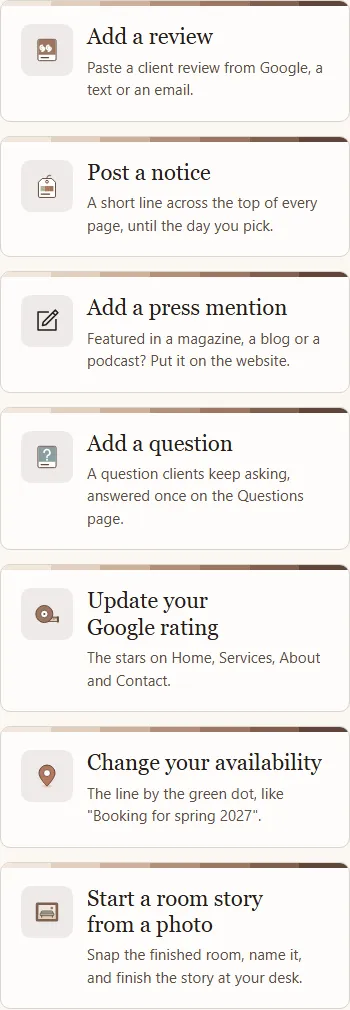
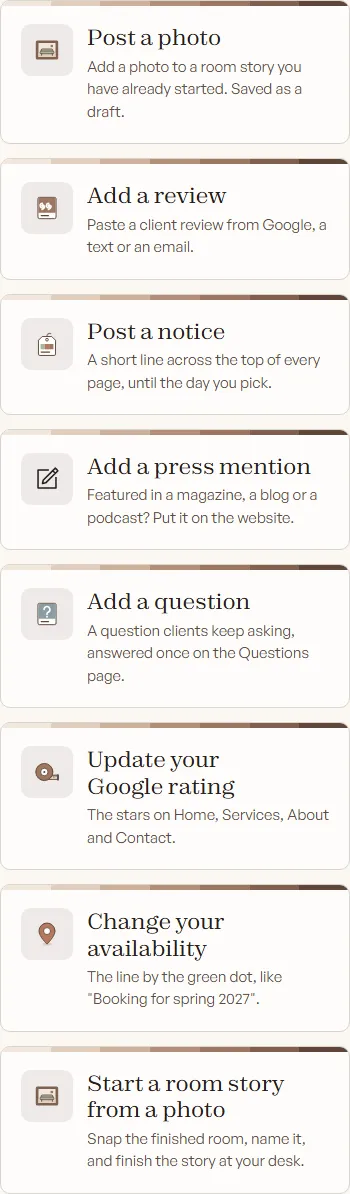
Post a photo onto an existing room story (starter cards 143 and 144)
Draft only, alt text required. Guide entry, What's new line, two 390px shots.

diff --git a/src/sanity/guides/shots.ts b/src/sanity/guides/shots.ts
@@ -63,17 +63,34 @@ export const GUIDE_SHOTS: Record<string, GuideShotData> = {
   },
   'quick-update-tiles': {
     src: '/guide-shots/quick-update-tiles.webp',
-    alt: 'Quick update on a phone: seven big buttons, Add a review, Post a notice, Add a press mention, Add a question, Update your Google rating, Change your availability and Start a room story from a photo.',
+    alt: 'Quick update on a phone: eight big buttons, Post a photo, Add a review, Post a notice, Add a press mention, Add a question, Update your Google rating, Change your availability and Start a room story from a photo.',
     width: 350,
-    height: 1010,
+    height: 1194,
     marks: [
-      { kind: 'stone', x: 90, y: 2, label: "A client's review, with their stars." },
-      { kind: 'stone', x: 90, y: 12.8, label: 'A line across the top of every page.' },
-      { kind: 'stone', x: 90, y: 26.2, label: 'Where you were featured.' },
-      { kind: 'stone', x: 90, y: 39.6, label: 'A question clients keep asking.' },
-      { kind: 'stone', x: 90, y: 55.2, label: 'Your Google rating and review count.' },
-      { kind: 'stone', x: 90, y: 71.2, label: 'Whether you are taking on new projects.' },
-      { kind: 'stone', x: 90, y: 84.6, label: 'Start a room story from a photo.' },
+      { kind: 'stone', x: 90, y: 2, label: 'Add a photo to a room story you started.' },
+      { kind: 'stone', x: 90, y: 12.7, label: "A client's review, with their stars." },
+      { kind: 'stone', x: 90, y: 24, label: 'A line across the top of every page.' },
+      { kind: 'stone', x: 90, y: 35.3, label: 'Where you were featured.' },
+      { kind: 'stone', x: 90, y: 46.7, label: 'A question clients keep asking.' },
+      { kind: 'stone', x: 90, y: 59.9, label: 'Your Google rating and review count.' },
+      { kind: 'stone', x: 90, y: 73.5, label: 'Whether you are taking on new projects.' },
+      { kind: 'stone', x: 90, y: 87, label: 'Start a room story from a photo.' },
+    ],
+  },
+  'quick-update-photo': {
+    src: '/guide-shots/quick-update-photo.webp',
+    alt: 'The Post a photo form on a phone: pick a photo, say what it shows, then choose which room story it goes on and save it as a draft.',
+    width: 390,
+    height: 1500,
+    marks: [
+      { kind: 'stone', x: 90, y: 49.7, label: 'Take a photo or choose one from your phone.' },
+      { kind: 'stone', x: 90, y: 58.7, label: 'Say what is in it, for someone who cannot see it.' },
+      {
+        kind: 'stone',
+        x: 90,
+        y: 83.2,
+        label: 'Pick the room story. Nothing goes live until you publish it.',
+      },
     ],
   },
   'quick-update-review': {

diff --git a/src/sanity/kit.config.ts b/src/sanity/kit.config.ts
@@ -456,8 +456,7 @@ export const kitConfig: KitConfig = {
     // Card 137 create job with a picture: the start of a room story from the
     // phone. A story is a long page, so this only opens it: the title, the town
     // and the cover photo, saved as a DRAFT. Adding photos to the gallery of a
-    // story that already exists needs an append job that can pick its document
-    // (not in card 137; noted in docs/agent/studio-plan.md for the starter).
+    // story that already exists is the Post a photo tile (postPhoto.stories, card 143).
     {
       id: 'room-photo',
       title: 'Start a room story from a photo',
@@ -672,6 +671,20 @@ export const kitConfig: KitConfig = {
     style: {
       chip: { shape: 'tag', bg: '#f5ede3', fg: '#231e1b', hoverBg: '#fffdfa' },
     },
+  },
+
+  // Card 143: "Post a photo" onto a room story that already exists. Room story
+  // photos are the project's own `gallery` list (alt text required there), so no
+  // page-builder galleries are offered. Always a DRAFT: nothing goes live until
+  // Staci opens the story and presses Publish.
+  postPhoto: {
+    galleryTypes: [],
+    stories: { types: ['project'], field: 'gallery', noun: 'Room story' },
+    tileLead: 'Add a photo to a room story you have already started. Saved as a draft.',
+    draftNote:
+      'It is saved as a draft on that room story. Open it and press Publish when you are ready.',
+    altExample: 'The finished living room, with the walnut sideboard against the sage wall',
+    note: "Photos of finished rooms only, and only with the client's say-so.",
   },
 
   features: {

diff --git a/src/sanity/kit/PostPhoto.tsx b/src/sanity/kit/PostPhoto.tsx
@@ -440,8 +440,8 @@ export function PostPhoto({ config, onBack }: { config: PostPhotoConfig; onBack:
               Describe the photo
             </Text>
             <Text size={1} muted style={{ lineHeight: 1.5 }}>
-              What is in it, for someone who cannot see it. For example: "The children's choir
-              singing at the Christmas service".
+              What is in it, for someone who cannot see it. For example: "
+              {config.altExample ?? "The children's choir singing at the Christmas service"}".
             </Text>
             <TextArea
               id="photo-alt"
@@ -520,8 +520,10 @@ export function PostPhoto({ config, onBack }: { config: PostPhotoConfig; onBack:
                 })}
                 {!choices.length && !config.post && (
                   <Text size={1} muted style={{ lineHeight: 1.5 }}>
-                    No page has a photo gallery yet. Add a "Photo gallery" section to a page in the
-                    full editor first.
+                    {config.emptyNote ??
+                      (stories && !config.galleryTypes.length
+                        ? `There is no ${(stories.noun ?? 'document').toLowerCase()} to add a photo to yet. Start one in the full editor first.`
+                        : 'No page has a photo gallery yet. Add a "Photo gallery" section to a page in the full editor first.')}
                   </Text>
                 )}
               </Stack>

diff --git a/src/sanity/guides/content.ts b/src/sanity/guides/content.ts
@@ -1079,7 +1079,7 @@ export const guides: Guide[] = [
     category: 'Housekeeping',
     title: 'Quick update from your phone',
     icon: 'bolt',
-    lead: 'Seven small jobs, each under a minute between clients.',
+    lead: 'Eight small jobs, each under a minute between clients.',
     diy: 'self',
     body: [
       {
@@ -1103,11 +1103,13 @@ export const guides: Guide[] = [
           '**Update your Google rating**: the rating and the day you checked it.',
           '**Change your availability**: the line by the green dot on Contact.',
           '**Start a room story from a photo**: a title, the town and a cover photo, saved as a draft you finish at your desk.',
+          '**Post a photo**: one photo for a room story you already started. Pick the story, take or choose the photo, say what it shows, and it is added to that story as a draft. Press Publish on your laptop when you are ready.',
         ],
       },
+      { kind: 'shot', key: 'quick-update-photo' },
       {
         kind: 'p',
-        text: 'A whole room story needs a dozen photos and a bigger screen, so the phone only opens it. Finish it from Home on your laptop.',
+        text: 'A whole room story needs a dozen photos and a bigger screen, so the phone opens it and adds photos one at a time. Finish it from Home on your laptop.',
       },
       {
         kind: 'seealso',

diff --git a/src/sanity/studio-tours.ts b/src/sanity/studio-tours.ts
@@ -185,6 +185,7 @@ export const WHATS_NEW: WhatsNewEntry[] = [
       'Quick update can now add a press mention or a question, update your Google rating, change your availability and start a room story from a photo.',
       'The Site Guide has pictures of the Studio for the jobs you do most.',
       'Show me around, on Home, walks you through the Studio.',
+      'Post a photo, on Quick update, adds a photo to a room story you already started. It is saved as a draft, so nothing goes live until you press Publish.',
       'Short videos on the jobs you do from your phone: add a review, post a notice, add a press mention, add a question and update your Google rating.',
     ],
     tour: 'first-run',

diff --git a/src/sanity/kit/types.ts b/src/sanity/kit/types.ts
@@ -134,6 +134,10 @@ export interface PostPhotoConfig {
     /** "Room story": the word before each name in the list. */
     noun?: string;
   };
+  /** Card 144: the example in "Describe the photo" ("The oak dresser against the sage wall"). */
+  altExample?: string;
+  /** Card 144: the line shown when there is nowhere to put a photo yet. Default: says so for the site's `stories` or galleries. */
+  emptyNote?: string;
   /** A new post made from the photo, saved as a draft. Missing: galleries only. */
   post?: {
     /** "A new journal post", as the choice reads. */

diff --git a/docs/PENDING.md b/docs/PENDING.md
@@ -19,7 +19,7 @@ items to "Recently closed" with a date, and prune that section when it grows.
 - [x] Card 137 wired (2026-10-19): tours, welcome and What's new from `src/sanity/studio-tours.ts`; Quick update edit jobs for the Google rating and availability; pick lists on the review and question forms.
 - [ ] **Videos, phone clips**: re-record the five scripts in `tools/tutorial-videos/scripts/` with Astro's dev toolbar and Sanity's "What's new" toast hidden (script `cover.selectors`), check every caption frame, register them in `src/sanity/guides/videos.ts` and add each guide's `video` (add-review, announcement, press, add-question, google-rating).
 - [ ] **Videos, desk clips**: first room story, change a price and trash from `docs/agent/studio-video-scripts.md`. They need a signed-in Studio that can publish (the kit harness refuses writes), then `videos.ts` entries and each guide's `video`.
-- [ ] **Post a photo into an existing room story** (still open after 137): room story photos are a top-level `gallery` list, which the kit's Post a photo and card 137's `append` / `upload` jobs cannot reach (no `pick`). "Start a room story from a photo" is the closest job today. See the plan.
+- [ ] **Post a photo onto a room story** (starter card 143, `postPhoto.stories`, 2026-10-20): built and unit-tested; signed in, pick a room story, add one photo with alt text, check it lands on the story's DRAFT gallery and nothing publishes, then Trash the test photo. No phone clip: it needs a real story, so it was not recorded.
 - [ ] Signed in, take the first-run tour and "How this screen works" on Home and Quick update at desktop and phone width, and check every spotlight lands on its button.
 - [ ] **The `publish-button` picture** still shows the wireframe: the kit harness signs in as a pretend user who cannot publish, so its Publish button is greyed. Capture it signed in (studio-kit.md, "Real captures in the guides").
 - [ ] Look at the new guides and pictures in the real Studio, signed in, at desktop and phone width: Where enquiries and bookings go, Ask a client for a Google review, Add a question, Quick update.

diff --git a/docs/agent/studio-kit.md b/docs/agent/studio-kit.md
@@ -418,7 +418,7 @@ quickUpdate: [
 
 `postPhoto.tileLead` and `postPhoto.draftNote` reword Post a photo's "saved as a draft" lines (a shop: "Saved for you to check before it goes in the shop.").
 
-`postPhoto.stories` (card 143) adds documents that keep a photo list of their own, such as a room story's `gallery`, to the places a photo can go: `{ types: ['project'], field?: 'gallery', altField?: 'alt', captionField?: 'caption', noun?: 'Room story' }`. Each document appears as "Room story: Title (n photos)"; the photo goes onto the DRAFT (made from the published copy when there is none), alt text required, never published. One photo per pass, with "Post another photo" on the done card. `galleryTypes` may be empty when only stories are offered.
+`postPhoto.stories` (card 143) adds documents that keep a photo list of their own, such as a room story's `gallery`, to the places a photo can go: `{ types: ['project'], field?: 'gallery', altField?: 'alt', captionField?: 'caption', noun?: 'Room story' }`. Each document appears as "Room story: Title (n photos)"; the photo goes onto the DRAFT (made from the published copy when there is none), alt text required, never published. One photo per pass, with "Post another photo" on the done card. `galleryTypes` may be empty when only stories are offered. `postPhoto.altExample` (card 144) swaps the church example in "Describe the photo" for one in the site's world, and `postPhoto.emptyNote` words the line shown when there is nowhere to put a photo yet (default: "There is no room story to add a photo to yet. Start one in the full editor first." for a stories-only site).
 
 Field kinds: `string`, `text`, `date`, `datetime`, `url`, `number`, `boolean` (a checkbox; its `description` is the
 words beside it), `select` (`options: [{ title, value }]`), `file`, `image` (`accept`). Every field takes `path`

diff --git a/docs/agent/studio-plan.md b/docs/agent/studio-plan.md
@@ -71,12 +71,7 @@ once it is looked up), Nathan the full Studio.
 - **Dropdowns**: "Where it came from" and "Stars" on a review, and "Which group" on a question, are pick lists now.
 - **Tours, welcome and What's new** are wired from `src/sanity/studio-tours.ts` (first run, Home, Quick update, and a
   room story tour on demand).
-- **Still open**: "Post a photo" into a room story. Room story photos live in their own `gallery` list, not in a
-  page-builder gallery section, so the kit's Post a photo (which adds to a gallery section) cannot reach them, and card
-  137's `append` and `upload` jobs name ONE fixed document (no `pick`), so they cannot reach a chosen room story
-  either. Today's closest job is "Start a room story from a photo" (a `create` job, saved as a draft). Adding install-day
-  photos to an existing story from the phone needs a starter change: `append` or `upload` with a `pick`, or a gallery
-  spec with no page builder.
+- **Post a photo** (starter card 143): `postPhoto.stories` in `kit.config.ts` offers each room story as a place for one photo, with alt text required. It is added to the story's DRAFT gallery (made from the published copy when there is none) and never publishes; Staci presses Publish at her desk. One photo per pass, "Post another photo" after each.
 - **Videos**: five phone scripts are in `tools/tutorial-videos/scripts/` (add a review, post a notice, add a press
   mention, add a question, update the Google rating) and were recorded once, but not registered: the recording showed
   Sanity's "What's new" toast and Astro's dev toolbar, so they need a re-record with those hidden (see PENDING). The desk

diff --git a/docs/agent/changelog.md b/docs/agent/changelog.md
@@ -2,6 +2,10 @@
 
 > Running change log, moved out of CLAUDE.md so it does not load on every task.
 
+## 2026-10-20: Post a photo onto a room story (starter cards 143 and 144)
+
+Quick update's Post a photo tile now adds one photo, with alt text, to a room story that already exists. It lands on the story's draft and never publishes. Config is `postPhoto` in `src/sanity/kit.config.ts`; the Site Guide and What's new mention it.
+
 ## 2026-10-19: Starter cards 139 to 143 synced
 
 `npm run check:look` (card 139), toasts in the site voice (card 140) and `postPhoto.stories` (card 143, photos onto a room story's own list; not switched on here yet) come from the starter, with the drawn Yes/No switch (card 141) and the How-to chip on date fields (card 142). Sync-check is all SAME.
